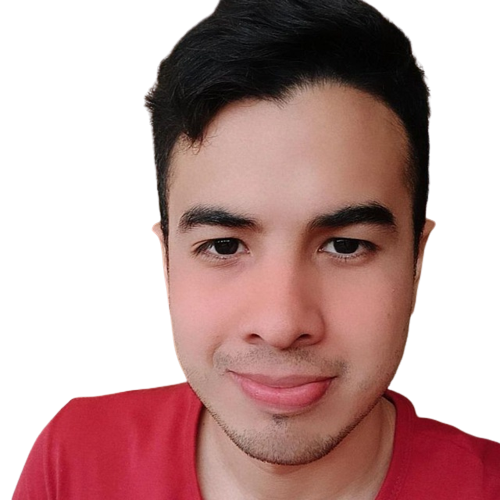
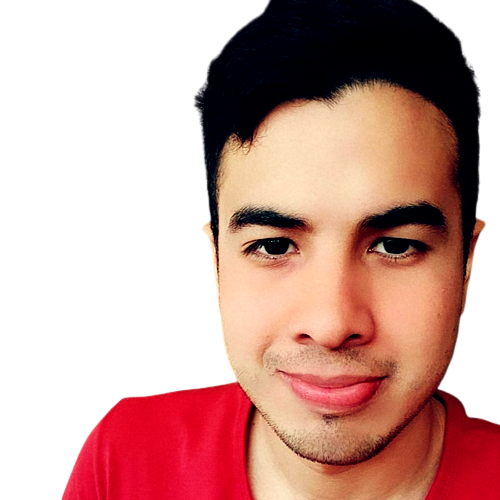
primera parte del about me

diff --git a/index.html b/index.html
@@ -8,7 +8,9 @@
 
     <!-- Google Fonts -->
     <link href="https://fonts.googleapis.com/css?family=Open+Sans:300,300i,400,400i,600,600i,700,700i|Raleway:300,300i,400,400i,500,500i,600,600i,700,700i|Poppins:300,300i,400,400i,500,500i,600,600i,700,700i" rel="stylesheet">
-
+    <link rel="preconnect" href="https://fonts.googleapis.com">
+    <link rel="preconnect" href="https://fonts.gstatic.com" crossorigin>
+    <link href="https://fonts.googleapis.com/css2?family=Titillium+Web:ital,wght@0,400;1,200&display=swap" rel="stylesheet">
     
     <!-- Boxicons CSS -->
     <link href='https://unpkg.com/boxicons@2.1.4/css/boxicons.min.css' rel='stylesheet'>
@@ -33,7 +35,7 @@
     
           <div class="profile">
             <img src="assets/img/profile-img.png" alt="" class="img-fluid rounded-circle">
-            <h1 class="text-light"><a href="index.html">Josue Baez</a></h1>
+            <h1 class="text-light fs-3"><a href="index.html">Josue Baez</a></h1>
             <div class="social-links mt-3 text-center">
               <a href="#" class="google-plus"><i class="bx bxl-skype"></i></a>
               <a href="#" class="github"><i class='bx bxl-github'></i></a>
@@ -72,31 +74,31 @@
 
         <div class="section-title">
           <h2>About</h2>
-          <p>I am a young man who is passionate about new technologies with the desire to grow widely in the field I chose, which is computer engineering. The world of computing is broad and lately my focus has been on learning web development. I am currently focused on in the frontend but I will surely go through the backend until I reach the deployment and see the full picture of this wonderful technology.</p>
+          <p class="fs-5">I am a young man who is passionate about new technologies with the desire to grow widely in the field I chose, which is computer engineering. The world of computing is broad and lately my focus has been on learning web development. I am currently focused on in the frontend but I will surely go through the backend until I reach the deployment and see the full picture of this wonderful technology.</p>
         </div>
 
         <div class="row">
-          <div class="col-lg-4" data-aos="fade-right">
-            <img src="assets/img/profile-img.jpg" class="img-fluid" alt="">
+          <div class="col-lg-4">
+            <img src="./assets/img/profilebg-img.png" class="img-profile-about img-fluid rounded-4" alt="my-img">
           </div>
           <div class="col-lg-8 pt-4 pt-lg-0 content" >
-            <h3>Computer Engineer &amp; Web Developer.</h3>
-            <p class="fst-italic">
+            
+            <p class="fst-italic fs-5">
               These are some of my data which I can present to you in this portfolio about me.
             </p>
-            <div class="row">
-              <div class="col-lg-6">
+            <div class="row row-cols-1 row-cols-xxl-2">
+              <div class="col pt-4">
                 <ul>
-                  <li><i class="bi bi-calendar-week"></i></i> <strong class="fs-4">Birthday:</strong> <span>4 October 1996</span></li>
-                  <li><i class='bx bx-world'></i><strong class="fs-4">Website:</strong> <span>www.example.com</span></li>
-                  <li><i class='bx bxs-city' ></i><strong class="fs-4">City:</strong> <span>Barcelona, Venezuela</span></li>
+                  <li><i class="bi bi-calendar-week "></i> <strong>Birthday:</strong> <span>4 October 1996</span></li>
+                  <li><i class='bx bx-world' ></i><strong >Website:</strong> <span>www.example.com</span></li>
+                  <li><i class='bx bxs-city' ></i><strong >City:</strong> <span>Barcelona, Venezuela</span></li>
                 </ul>
               </div>
-              <div class="col-lg-6">
-                <ul>
-                  <li><i class="bi bi-person"></i></i> <strong class="fs-4">Age:</strong> <span>27</span></li>
-                  <li><i class="bi bi-book"></i></i></i> <strong class="fs-4">Degree:</strong> <span>Junior</span></li>
-                  <li><i class="bi bi-envelope"></i></i></i> <strong class="fs-4">Email:</strong> <span>email@example.com</span></li>
+              <div class="col pt-4">
+                <ul >
+                  <li><i class='bx bx-user'></i> <strong>Age:</strong> <span>27</span></li>
+                  <li><i class="bi bi-book ms-1"></i> <strong>Degree:</strong> <span>Junior</span></li>
+                  <li><i class="bi bi-envelope ms-1"></i> <strong>Email:</strong> <span>email@example.com</span></li>
                 </ul>
               </div>
             </div>
@@ -104,12 +106,13 @@
         </div>
         
         <!-- EXPERIENCE & EDUCATION -->
-        <div class="section-title mt-4">
-          <h2>Experience & Education</h2> 
-          <p>Magnam dolores commodi suscipit. Necessitatibus eius consequatur ex aliquid fuga eum quidem. Sit sint consectetur velit. Quisquam quos quisquam cupiditate. Et nemo qui impedit suscipit alias ea. Quia fugiat sit in iste officiis commodi quidem hic quas.</p>
-        </div>
+        <div class="row mt-4">
 
-        <div class="row">
+          <div class="col">
+            <h2>Experience &amp; Education</h2> 
+            <p>Magnam dolores commodi suscipit. Necessitatibus eius consequatur ex aliquid fuga eum quidem. Sit sint consectetur velit. Quisquam quos quisquam cupiditate. Et nemo qui impedit suscipit alias ea. Quia fugiat sit in iste officiis commodi quidem hic quas.</p>
+          </div>
+
           <div class="col-lg-4" data-aos="fade-right">
             <img src="assets/img/profile-img.jpg" class="img-fluid" alt="">
           </div>

diff --git a/assets/css/style.css b/assets/css/style.css
@@ -1,15 +1,16 @@
   :root{
     --violet : #6600FF ;
-    --violet-opa: #5b00e4ab;
+    --violet-opa: #5800dbf5;
     --dark-shadow: #040b14;
+    --white-light: #ffffffe6;
   }
   
   /*--------------------------------------------------------------
   # General
   --------------------------------------------------------------*/
 body {
-    font-family: "Open Sans", sans-serif;
-    color: #272829;
+    font-family: "Titillium Web", "Open Sans", sans-serif;
+    color:var(--white-light)
   }
   
   a {
@@ -48,13 +49,12 @@ section {
 }
 
 .section-title h2 {
-  font-size: 48px;
+  font-size: 3.5rem;
   font-weight: bold;
   margin-bottom: 20px;
   padding-bottom: 20px;
   position: relative;
-  color: var(--violet);
-  text-align: center;
+  color:var(--white-light);
 }
 
 .section-title h2::after {
@@ -62,10 +62,9 @@ section {
   position: absolute;
   display: block;
   width: 250px;
-  height: 3px;
+  height: 5px;
   background: var(--violet) ;
   bottom: 0;
-  text-align: center;
 }
 
 .section-title p {
@@ -94,7 +93,7 @@ section {
   }
   
   #header .profile h1 {
-    font-size: 24px;
+    font-size: 1.5rem;
     margin: 0;
     padding: 0;
     font-weight: 600;
@@ -110,7 +109,7 @@ section {
   }
   
   #header .profile .social-links a {
-    font-size: 18px;
+    font-size: 1.15;
     display: inline-block;
     background: #212431;
     color: #fff;
@@ -162,7 +161,7 @@ section {
 --------------------------------------------------------------*/
 /* Desktop Navigation */
 .nav-menu {
-  padding: 10px 0 0 0;
+  padding: 30px 0 0 0;
   margin-left: 30px;
 }
 
@@ -184,12 +183,12 @@ section {
   color: #a8a9b4;
   padding: 12px 15px;
   margin-bottom: 8px;
-  font-size: 19px;
+  font-size: 1rem;
 }
 
 .nav-menu a i,
 .nav-menu a:focus i {
-  font-size: 24px;
+  font-size: 1.5rem;
   padding-right: 8px;
   color: #6f7180;
 }
@@ -268,7 +267,7 @@ section {
 
 #hero h1 {
   margin: 0 0 10px 0;
-  font-size: 64px;
+  font-size: 4rem;
   font-weight: 700;
   line-height: 56px;
   color: #fff;
@@ -277,7 +276,7 @@ section {
 #hero p {
   color: #fff;
   margin-bottom: 50px;
-  font-size: 26px;
+  font-size: 1.6rem;
   font-family: "Poppins", sans-serif;
 }
 
@@ -310,10 +309,8 @@ section {
 /*--------------------------------------------------------------
 # About
 --------------------------------------------------------------*/
-.about .content h3 {
-  font-weight: 700;
-  font-size: 26px;
-  color: var(--violet-opa);
+.about{
+  background: var(--dark-shadow)
 }
 
 .about .content ul {
@@ -322,24 +319,69 @@ section {
 }
 
 .about .content ul li {
-  margin-bottom: 20px;
+  margin-bottom: 65px;
   display: flex;
   align-items: center;
 }
 
 .about .content ul strong {
   margin-right: 10px;
+  color: var(--white-light);
+  font-size: 2rem;
+  font-family: "Raleway";
+  
 }
 
 .about .content ul i {
-  font-size: 16px;
+  font-size: 1rem;
   margin-right: 5px;
   color: var(--violet-opa);
   line-height: 0;
 }
+.about .content ul li i {
+  font-size: 3rem;
+}
 
+.about .content ul li span {
+  font-size: 1.5rem;
+}
 .about .content p:last-child {
   margin-bottom: 0;
+}
+
+@media (min-width: 992px) and (max-width: 1400px) {
+  .about .img-profile-about {
+    margin-top: 7rem !important;
+    border-radius: 10% !important;
+  }
+
+  .about .content p{
+    margin-left: 50px;
+  }
+
+  .about .content ul li {
+    margin-bottom: 20px;
+    margin-left: 50px
+  }
+}
+
+@media (max-width: 1400px) {
+  .about .content ul li i {
+    font-size: 1.5rem
+  }
+
+  .about .content ul i {
+    font-size: 2rem;
+    
+  }
+
+  .about .content ul strong {
+    font-size: 1.8rem;
+    
+  }
+  .about .content ul li {
+    margin-bottom: 20px;
+  }
 }
 
 
@@ -358,20 +400,15 @@ section {
   background: var(--dark-shadow);
 }
 
-#footer .copyright {
+#footer * {
   text-align: center;
-}
-
-#footer .credits {
-  padding-top: 5px;
-  text-align: center;
-  font-size: 13px;
+  font-size: 0.6rem;
   color: #eaebf0;
 }
 
 #footer .my-logo{
-  width: 30px;
-  height: 30px;
+  width: 25px;
+  height: 25px;
 }
 
 @media (max-width: 1199px) {
